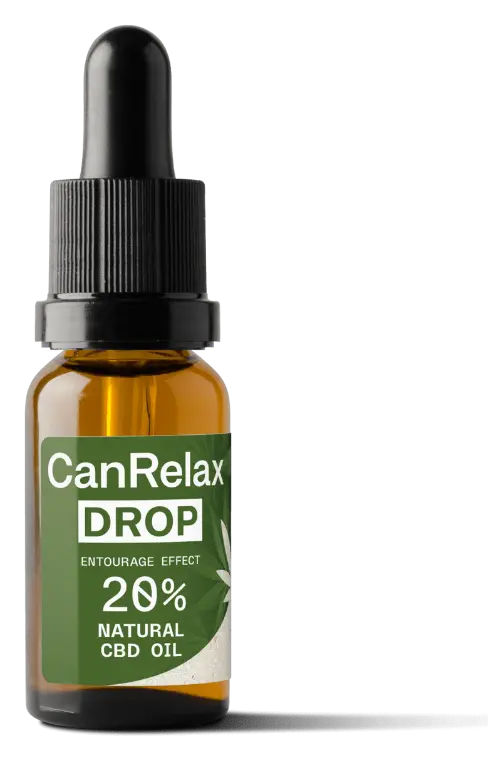
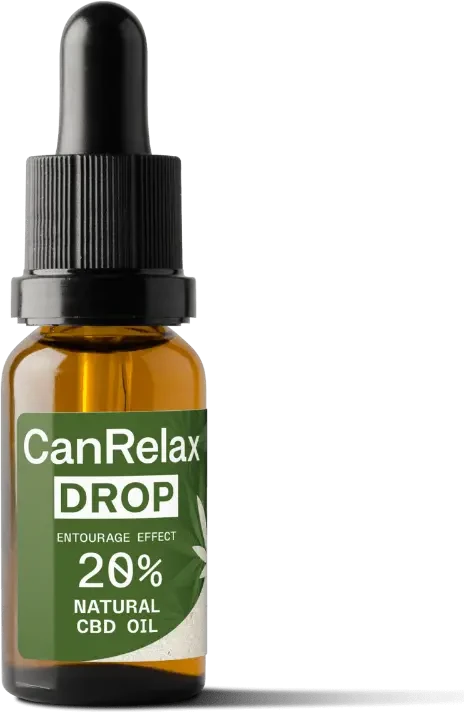
Let the products float, without tiles
The cream tiles are gone: each product stands centred on the page over a soft
pool of shadow and drifts a few pixels, stilled under reduced motion. The four
MetaFibro bottles are cut out of their table shot and every product is trimmed
to its own edges, so they all scale alike.

Claude-Session: https://claude.ai/code/session_01DPbq65vZ1idaHdr8ZZKwof

Changed region(s): [[0.0, 0.0, 0.875, 1.0]]

diff --git a/botanical.css b/botanical.css
@@ -195,17 +195,27 @@ img{display:block;max-width:100%}
 #grid,#teaser{display:grid;grid-template-columns:repeat(3,minmax(0,1fr));gap:clamp(22px,2.6vw,34px)}
 .card{display:flex;flex-direction:column;min-width:0}
 .tile{
-  position:relative;display:grid;place-items:center;overflow:hidden;
-  aspect-ratio:4/5;border-radius:16px;
-  background:linear-gradient(168deg,#F6F2E6 0%,#E2E2D2 62%,#D2D6C6 100%);
-  box-shadow:0 22px 44px rgba(0,0,0,.4);
+  position:relative;display:grid;place-items:center;
+  aspect-ratio:4/5;
 }
-.tile::after{
-  content:"";position:absolute;inset:0;pointer-events:none;
-  background:radial-gradient(70% 55% at 28% 16%,rgba(255,255,255,.75),transparent 60%);
+/* the product stands on nothing: a pool of light holds it up */
+.tile::before{
+  content:"";position:absolute;left:50%;bottom:7%;translate:-50% 0;
+  width:62%;height:9%;border-radius:50%;pointer-events:none;
+  background:radial-gradient(closest-side,rgba(4,10,7,.70),transparent 72%);
+  filter:blur(7px);
 }
-.tile img{position:relative;z-index:1;max-width:72%;max-height:76%;width:auto;height:auto;object-fit:contain;transition:transform .5s cubic-bezier(.2,.7,.2,1)}
-.card:hover .tile img{transform:translateY(-6px) scale(1.03)}
+.tile img{
+  position:absolute;inset:0;margin:auto;z-index:1;
+  max-width:74%;max-height:80%;width:auto;height:auto;object-fit:contain;
+  filter:drop-shadow(0 20px 26px rgba(0,0,0,.55));
+  animation:float 7s ease-in-out infinite;
+  transition:transform .5s cubic-bezier(.2,.7,.2,1);
+}
+.card:nth-child(3n+2) .tile img{animation-delay:-2.3s}
+.card:nth-child(3n+3) .tile img{animation-delay:-4.6s}
+.card:hover .tile img{animation-play-state:paused;transform:translateY(-8px) scale(1.03)}
+@keyframes float{0%,100%{translate:0 0}50%{translate:0 -7px}}
 .cardmeta{display:flex;align-items:baseline;justify-content:space-between;gap:12px;margin-top:18px}
 .cardmeta small{font:400 11px/1.4 var(--s);letter-spacing:.14em;color:var(--ivory2)}
 .card h3{font-size:clamp(1.15rem,1.7vw,1.5rem);margin:8px 0 0}
@@ -369,6 +379,7 @@ dialog#bag::backdrop{background:rgba(3,9,6,.78);backdrop-filter:blur(3px)}
 
 /* ---------------- reduced motion ---------------- */
 @media(prefers-reduced-motion:reduce){
+  .tile img{animation:none}
   html{scroll-behavior:auto}
   *,*::before,*::after{animation:none!important;transition:none!important}
   .stage{position:relative;height:auto;min-height:88svh;padding:calc(var(--navh) + 6vh) 0 8vh}

diff --git a/README.md b/README.md
@@ -40,4 +40,7 @@ shop cannot be reached, the bag is kept and the visitor gets direct product link
   real URLs are supplied.
 - No new medical claim has been added anywhere.
 
-Product photography: CBX Medical. Botanical cover: generated for this design.
+Product photography: CBX Medical. Every product in `products/` is cut out on a
+transparent background and trimmed to the product itself, so the cards can drop
+their tiles and the products scale alike. The four MetaFibro bottles were shot on
+a table and were cut out here; if CBX has packshots of them, drop those in instead. Botanical cover: generated for this design.
